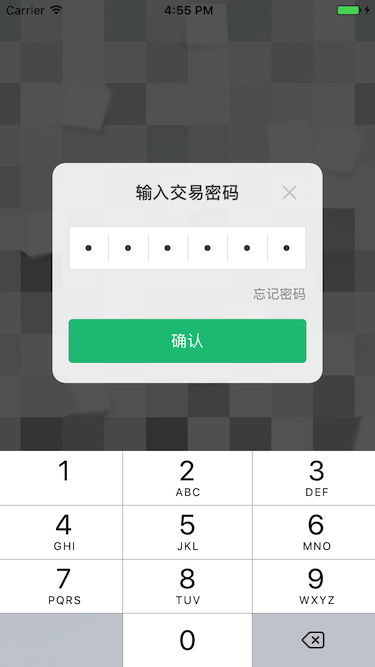
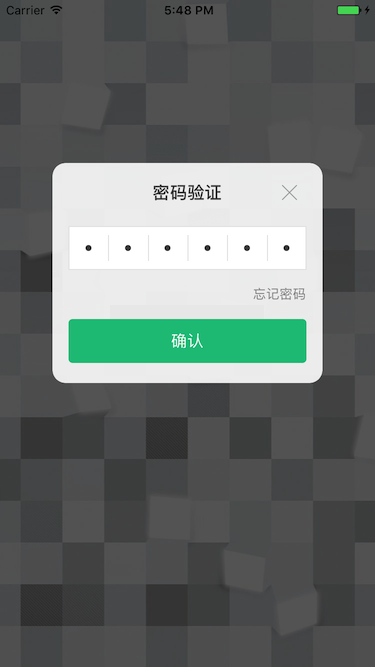
update show image , README

diff --git a/CSPasswordPanal/CSPwdPanalViewController.m b/CSPasswordPanal/CSPwdPanalViewController.m
@@ -42,7 +42,6 @@ static const CGFloat passwordPanalMaxY = 391;
 
 #pragma mark  -  lifecycle
 -(void)dealloc{
-    NSLog(@"--->%s",__func__);
     _pwdTextField.delegate = nil;
     [[NSNotificationCenter defaultCenter] removeObserver:self];
 }
@@ -50,15 +49,19 @@ static const CGFloat passwordPanalMaxY = 391;
 - (void)viewDidLoad {
     [super viewDidLoad];
     [self addNotification];
-    
-    self.pwdNumCount = (self.pwdNumCount ? self.pwdNumCount : pwdNumCountDefault);
-    self.pwdString = @"";
+    [self defaultConfig];
     [self initUI];
     [self.pwdTextField becomeFirstResponder];
     
     UITapGestureRecognizer *tap = [[UITapGestureRecognizer alloc] initWithTarget:self action:@selector(hideKeyBoard)];
     tap.cancelsTouchesInView = NO;
     [self.view addGestureRecognizer:tap];
+}
+
+- (void)defaultConfig {
+    self.pwdNumCount = (self.pwdNumCount ? self.pwdNumCount : pwdNumCountDefault);
+    self.pwdString = @"";
+    self.panalTitle = (self.panalTitle.length > 0 ? self.panalTitle : @"密码验证");
 }
 
 - (void)initUI {
@@ -79,7 +82,7 @@ static const CGFloat passwordPanalMaxY = 391;
     }];
     
     UILabel *titleLabel = [[UILabel alloc] init];
-    titleLabel.text = @"输入交易密码";
+    titleLabel.text = self.panalTitle;
     titleLabel.textAlignment = NSTextAlignmentCenter;
     titleLabel.font = [UIFont boldSystemFontOfSize:17];
     titleLabel.textColor = [UIColor colorWithRed:(70)/255.0f green:(70)/255.0f blue:(70)/255.0f alpha:1];
@@ -92,7 +95,7 @@ static const CGFloat passwordPanalMaxY = 391;
     }];
     
     UIButton *cancelBtn = [[UIButton alloc] init];
-    [cancelBtn setImage:[UIImage imageNamed:@"login_delete"] forState:UIControlStateNormal];
+    [cancelBtn setImage:[self defaultCancelImage] forState:UIControlStateNormal];
     [cancelBtn addTarget:self action:@selector(close:) forControlEvents:UIControlEventTouchUpInside];
     [panalView addSubview:cancelBtn];
     [cancelBtn mas_makeConstraints:^(MASConstraintMaker *make) {
@@ -184,6 +187,26 @@ static const CGFloat passwordPanalMaxY = 391;
     self.activeColor = (self.activeColor ? self.activeColor : [self colorWithHexString:@"12c286"]);
     self.confirmBtn.backgroundColor = (enabled ? self.activeColor : self.normolColor);
     self.confirmBtn.enabled = enabled;
+}
+
+- (UIImage *)defaultCancelImage {
+    CGFloat w_h = 15;
+    static UIImage *cancelImg = nil;
+    static dispatch_once_t onceToken;
+    dispatch_once(&onceToken, ^{
+        UIGraphicsBeginImageContextWithOptions(CGSizeMake(w_h, w_h), NO, 0);
+        [[UIColor lightGrayColor] setStroke];
+        UIBezierPath *bzrPath = [UIBezierPath bezierPath];
+        bzrPath.lineWidth = 1;
+        [bzrPath moveToPoint:CGPointZero];
+        [bzrPath addLineToPoint:CGPointMake(w_h, w_h)];
+        [bzrPath moveToPoint:CGPointMake(0, w_h)];
+        [bzrPath addLineToPoint:CGPointMake(w_h, 0)];
+        [bzrPath stroke];
+        cancelImg = UIGraphicsGetImageFromCurrentImageContext();
+        UIGraphicsEndImageContext();
+    });
+    return cancelImg;
 }
 
 #pragma mark  -  listen

diff --git a/CSPasswordPanal/CSPwdPanalViewController.h b/CSPasswordPanal/CSPwdPanalViewController.h
@@ -14,7 +14,6 @@
 
 @interface CSPwdPanalViewController : UIViewController
 
-
 /**
  一个优美而方便的密码验证的面板。 调用这一个接口即可。
  使用时需导入Masonry。
@@ -47,6 +46,7 @@
 
 
 // config 接口
+@property (nonatomic, strong) NSString *panalTitle;     // 面板title。默认文字“密码验证”
 @property (nonatomic, assign) NSInteger pwdNumCount;    // 密码总位数。默认为6。
 @property (nonatomic, strong) UIColor *activeColor;     // 提交按钮激活时的颜色。默认#909090
 @property (nonatomic, strong) UIColor *normolColor;     // 提交按钮未激活时的颜色。默认#12c286

diff --git a/README.md b/README.md
@@ -45,6 +45,7 @@ CSPwdPanalViewController.m
 有三个可以配置属性：
 
 ```
+@property (nonatomic, strong) NSString *panalTitle;     // 面板title。默认文字“密码验证”
 @property (nonatomic, assign) NSInteger pwdNumCount;    // 密码总位数。默认为6。
 @property (nonatomic, strong) UIColor *activeColor;     // 提交按钮激活时的颜色。默认#909090
 @property (nonatomic, strong) UIColor *normolColor;     // 提交按钮未激活时的颜色。默认#12c286
